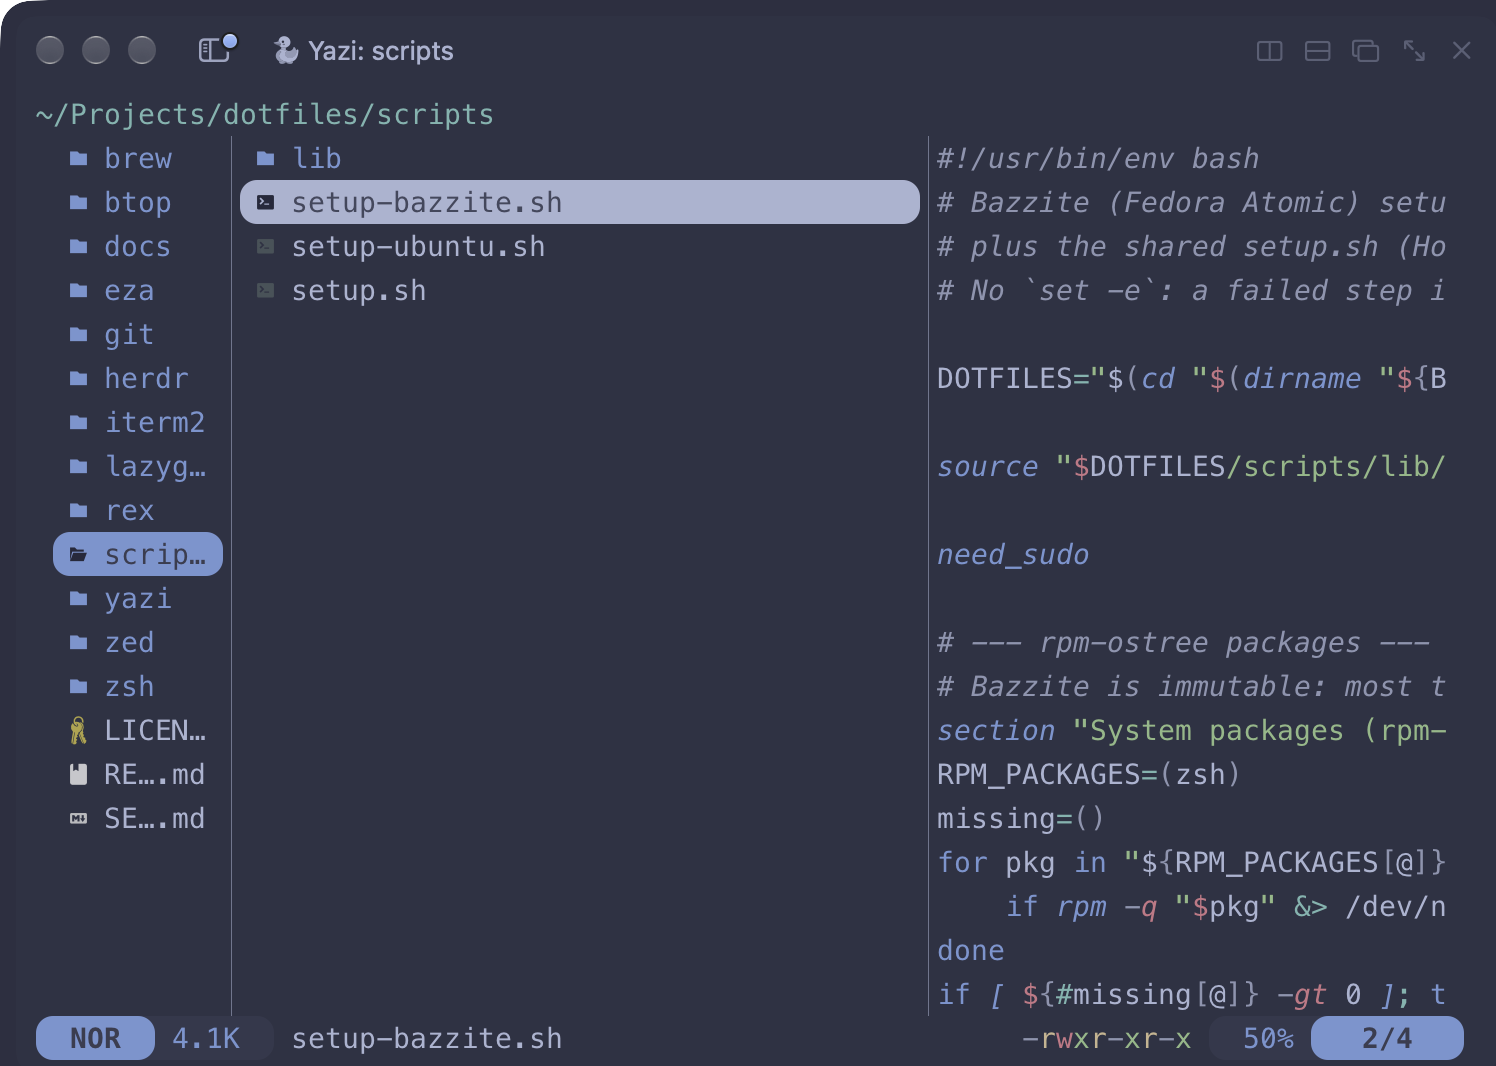
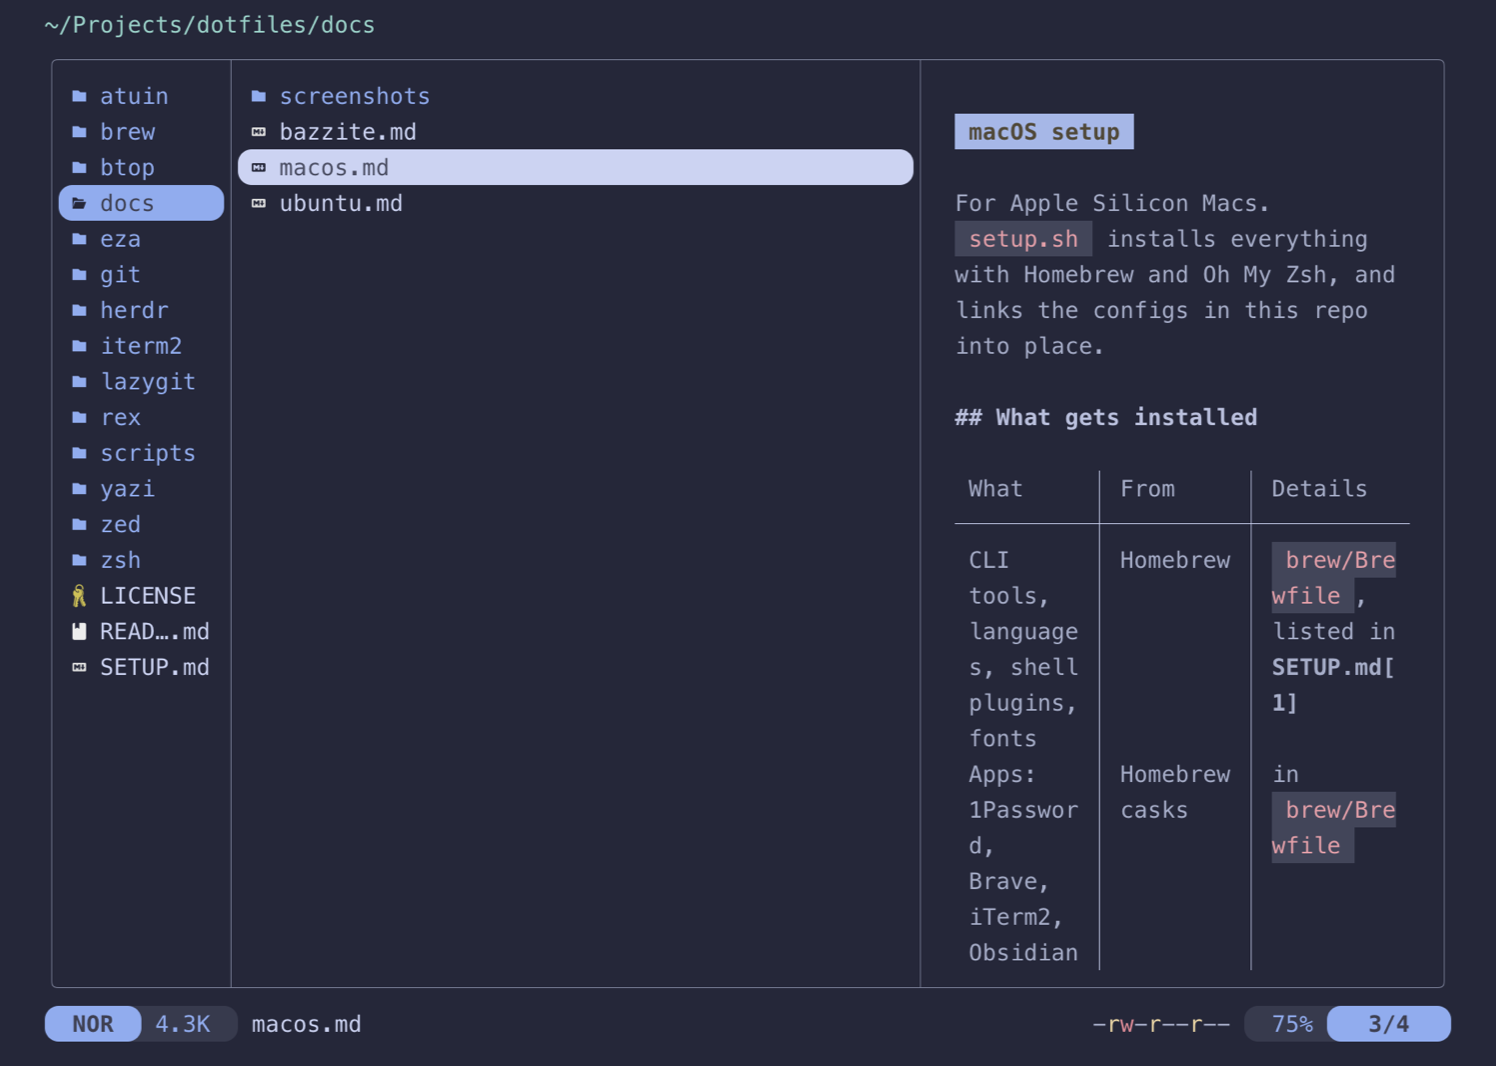
docs: README screenshots for yazi, gdu, dust, duf, btop, glow and atuin

diff --git a/README.md b/README.md
@@ -9,7 +9,19 @@ I'd been putting this off for years. This is finally the dotfiles repo I keep us
 </tr>
 <tr>
 <td><img src="docs/screenshots/lazygit.png" alt="lazygit showing the latest commit"><br><sub>lazygit</sub></td>
-<td><img src="docs/screenshots/yazi.png" alt="yazi browsing the scripts folder"><br><sub>yazi</sub></td>
+<td><img src="docs/screenshots/yazi.png" alt="yazi with rounded borders and a Markdown preview of docs/macos.md"><br><sub>yazi, with a Markdown preview through glow</sub></td>
+</tr>
+<tr>
+<td><img src="docs/screenshots/gdu.png" alt="gdu listing the repo's folders by size"><br><sub><code>gdu</code>: disk usage you can browse</sub></td>
+<td><img src="docs/screenshots/dust.png" alt="dust showing the repo's folders as a tree with bars"><br><sub><code>dust</code>: what's big in a folder</sub></td>
+</tr>
+<tr>
+<td><img src="docs/screenshots/duf.png" alt="duf's table of drives with size, used and free space"><br><sub><code>duf</code>: how full each drive is</sub></td>
+<td><img src="docs/screenshots/btop.png" alt="btop showing CPU, memory, disks, network and processes"><br><sub>btop</sub></td>
+</tr>
+<tr>
+<td><img src="docs/screenshots/glow.png" alt="glow rendering this README in the terminal"><br><sub><code>glow README.md</code></sub></td>
+<td><img src="docs/screenshots/atuin.png" alt="atuin's Ctrl+R history search"><br><sub>atuin (Ctrl+R)</sub></td>
 </tr>
 </table>
 
